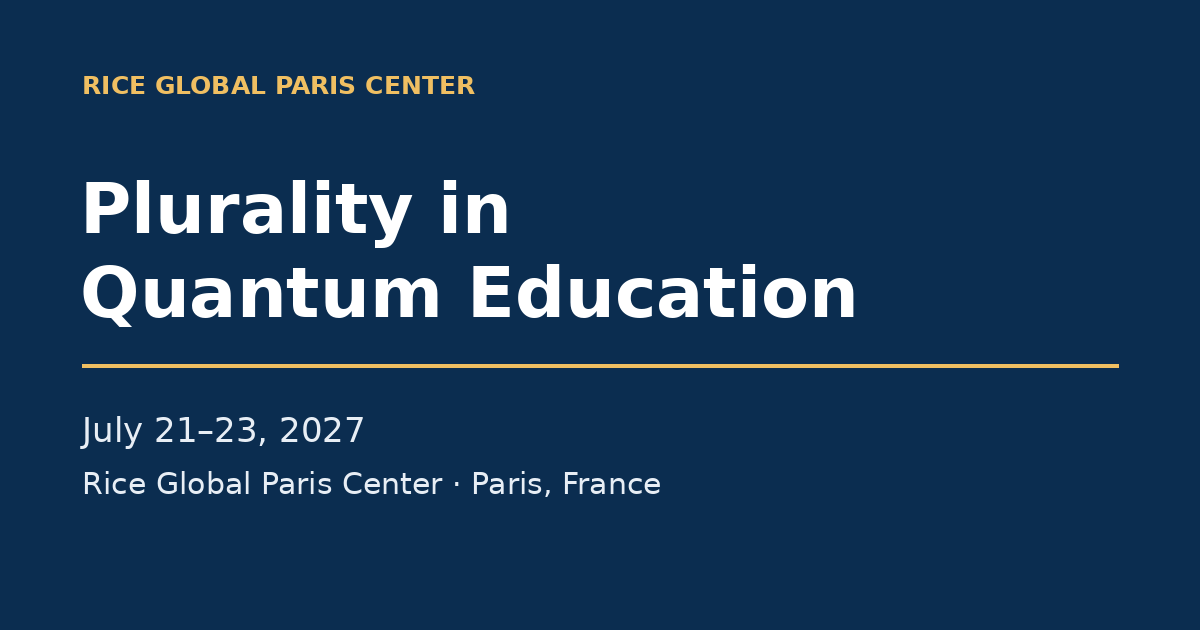
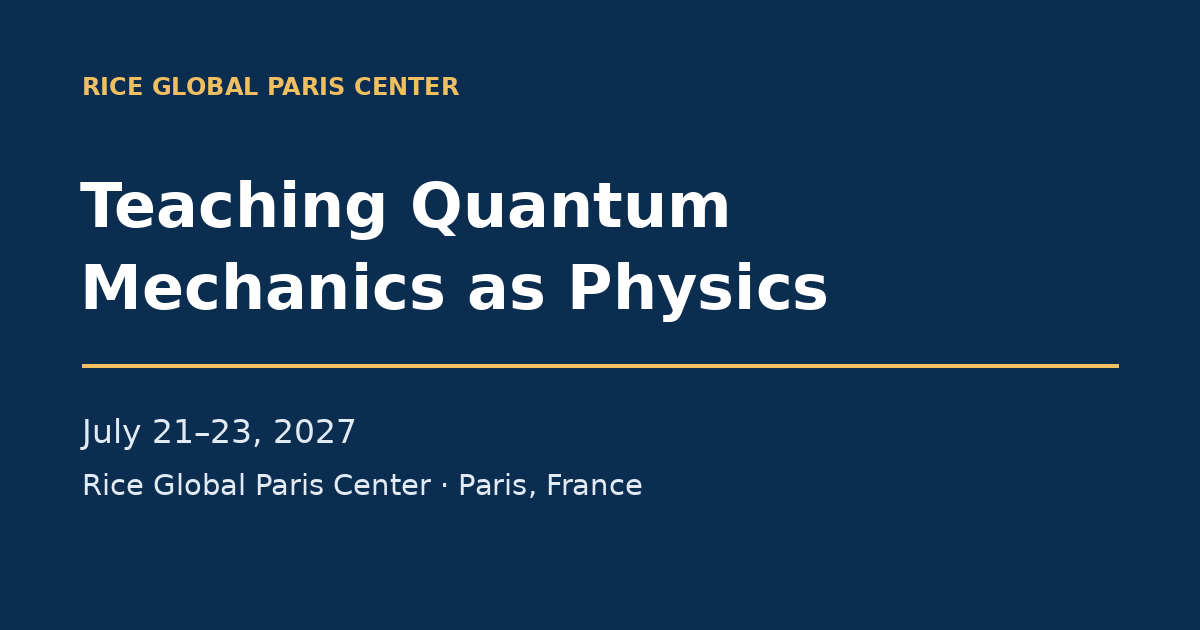
Paris 2027: new title, subtitle and overview; rename People tab to Committees

diff --git a/paris-2027/index.html b/paris-2027/index.html
@@ -3,10 +3,10 @@
 <head>
   <meta charset="UTF-8" />
   <meta name="viewport" content="width=device-width, initial-scale=1.0" />
-  <title>Plurality in Quantum Education | Paris 2027</title>
+  <title>Teaching Quantum Mechanics as Physics | Paris 2027</title>
   <meta name="description" content="A meeting of up to 35 participants at the Rice Global Paris Center, July 21–23, 2027, bringing proponents of different views of quantum mechanics together with physics educators in the centenary year of the 1927 Solvay Conference." />
   <meta property="og:type" content="website" />
-  <meta property="og:title" content="Plurality in Quantum Education · Paris 2027" />
+  <meta property="og:title" content="Teaching Quantum Mechanics as Physics · Paris 2027" />
   <meta property="og:description" content="What does quantum mechanics say about the world, and what should students learn about it? A working meeting at the Rice Global Paris Center, July 21–23, 2027." />
   <meta property="og:url" content="https://qontic.github.io/qontic-dev/paris-2027/" />
   <meta property="og:image" content="https://qontic.github.io/qontic-dev/paris-2027/og-image.png" />
@@ -58,24 +58,79 @@
     .program dt { color:var(--blue); font-weight:800; }
     .program dd { margin:0; font-size:.88rem; }
     .program strong { display:block; color:var(--navy); }
-    .committee { list-style:none; margin:.4rem 0 0; padding:0; }
-    .committee li { display:flex; flex-wrap:wrap; justify-content:space-between; gap:0 1rem; padding:.42rem 0; border-top:1px solid var(--line); font-size:.88rem; }
-    .committee strong { color:var(--navy); }
-    .committee .role { color:var(--muted); font-weight:400; }
-    .committee .affiliation { color:var(--muted); }
+    .committee { list-style:none; margin:.35rem 0 0; padding:0; columns:2; column-gap:1.4rem; font-size:.86rem; line-height:1.35; }
+    .committee li { break-inside:avoid; margin-bottom:.4rem; }
+    .committee strong { color:var(--navy); font-weight:650; }
+    .committee .affiliation { display:block; color:var(--muted); font-size:.8rem; }
     .invitation { display:flex; align-items:baseline; gap:.8rem; margin-top:.8rem; padding:.6rem .85rem; background:#e5eff5; border-left:4px solid var(--blue); }
     .invitation h2,.invitation p { margin:0; }
     .invitation p { font-size:.88rem; }
     .small { color:var(--muted); }
+    .glance { display:grid; grid-template-columns:165px minmax(0,1fr); gap:1.1rem; padding:0 1rem 0 0; }
+    .glance-photo { position:relative; margin:0; overflow:hidden; background:#2c5f93; }
+    .glance-photo img { position:absolute; inset:0; width:100%; height:100%; object-fit:cover; object-position:center 30%; }
+    .glance-photo figcaption { position:absolute; left:0; right:0; bottom:0; padding:1.2rem .35rem .25rem; background:linear-gradient(transparent,rgba(0,0,0,.6)); color:#eef2f5; font-size:.56rem; line-height:1.25; }
+    .glance-photo figcaption a { color:inherit; }
+    .glance-body { padding:.8rem 0 .9rem; }
+    .glance-body h2 { margin-top:0 !important; font-size:1.5rem !important; }
+    .glance-body dt { margin-top:1rem; font-size:.72rem; }
+    .glance-body dd { line-height:1.4; }
+    .glance-body dd { font-size:1rem; }
+    .heritage { margin-top:1rem; padding:1.1rem 1.2rem 1rem; color:#e6f0f7; background:radial-gradient(circle at 88% 0%,#28678b 0,transparent 45%),linear-gradient(150deg,#082641,#10446e); border-top:3px solid var(--gold); box-shadow:0 8px 25px rgba(8,38,65,.12); }
+    .heritage .kicker { margin:0 0 .25rem; color:#f4d696; font-size:.7rem; font-weight:750; letter-spacing:.13em; text-transform:uppercase; }
+    .heritage h2 { margin:0 0 .55rem; color:#fff; font:normal 1.4rem/1.2 Georgia,serif; }
+    .heritage p { font-size:.9rem; }
+    .timeline { list-style:none; display:grid; grid-template-columns:repeat(3,1fr); margin:.9rem 0 .8rem; padding:0; position:relative; }
+    .timeline::before { content:""; position:absolute; left:8px; right:8px; top:7px; height:2px; background:linear-gradient(90deg,rgba(232,189,103,.35),var(--gold)); }
+    .timeline li { position:relative; padding:1.35rem .6rem 0 0; font-size:.8rem; line-height:1.35; color:#d3e4ef; }
+    .timeline li::before { content:""; position:absolute; left:0; top:0; width:16px; height:16px; border-radius:50%; background:#0d3b62; border:2px solid var(--gold); }
+    .timeline li:last-child::before { background:var(--gold); box-shadow:0 0 0 4px rgba(232,189,103,.25); }
+    .timeline .year { display:block; color:#fff; font:normal 1.35rem/1.1 Georgia,serif; }
+    .timeline .place { display:block; color:#f4d696; font-size:.7rem; font-weight:750; letter-spacing:.08em; text-transform:uppercase; margin:.1rem 0 .2rem; }
+    .heritage .ref { margin:0; color:#b8cfde; font-size:.74rem; }
+    .heritage .ref em { color:#d3e4ef; }
+    .aim p { font-size:1.06rem; line-height:1.55; }
+    .heritage-wrap { margin-top:1.2rem; }
+    #overview > .heritage { display:grid; grid-template-columns:minmax(0,1.05fr) minmax(0,1fr); gap:0 2rem; align-items:center; margin-top:1.2rem; padding:1.3rem 1.5rem 1.1rem; }
+    #overview > .heritage .timeline { margin-top:.4rem; }
+    #overview .content-grid { align-items:stretch; grid-template-columns:minmax(0,1.4fr) minmax(0,1fr); }
+    #overview .content-column:last-child { display:flex; }
+    #overview .glance { flex:1; }
+    .glance-body { display:flex; flex-direction:column; justify-content:center; }
+    .people-block { max-width:880px; }
+    .people-block + .people-block { margin-top:1.4rem; }
+    #committee .committee, #advisory .committee { columns:3; margin-top:.6rem; }
+    .participant-list { columns:3; margin-top:.6rem; }
+    .tabs { display:flex; gap:.25rem; margin:0 0 1rem; border-bottom:2px solid var(--line); }
+    .tabs a { padding:.55rem 1rem; margin-bottom:-2px; border-bottom:3px solid transparent; color:var(--muted); font-weight:700; font-size:.95rem; text-decoration:none; }
+    .tabs a:hover { color:var(--navy); }
+    .tabs a[aria-selected="true"] { color:var(--navy); border-bottom-color:var(--gold); }
+    .js .tab-panel[hidden] { display:none; }
+    .venue-grid { display:grid; grid-template-columns:minmax(0,1.1fr) minmax(0,1fr); gap:1.4rem; align-items:start; }
+    .venue-hero { margin:0 0 .8rem; }
+    .venue-hero img { display:block; width:100%; height:260px; object-fit:cover; object-position:center 34%; }
+    .venue-hero figcaption { padding-top:.25rem; color:var(--muted); font-size:.72rem; }
+    .travel { list-style:none; margin:.3rem 0 .8rem; padding:0; }
+    .travel li { padding:.42rem 0; border-top:1px solid var(--line); font-size:.9rem; }
+    .travel strong { color:var(--navy); }
     footer { padding:.65rem 0; background:#082641; color:#d8e6ef; font-size:.8rem; }
     footer a { color:#fff; }
     @media(max-width:800px) {
-      .content-grid { grid-template-columns:1fr; }
+      .content-grid, #overview .content-grid { grid-template-columns:1fr; }
       .content-grid { gap:.7rem; }
       .hero { padding:1.3rem 0; }
       .hero-layout { grid-template-columns:minmax(0,1fr) 76px; gap:.7rem; }
       .event-logo { width:76px; height:76px; align-self:start; }
       .hero-details span + span::before { margin-right:.6rem; }
+      .venue-grid { grid-template-columns:1fr; }
+      .glance { grid-template-columns:110px minmax(0,1fr); gap:.8rem; }
+      .committee, #committee .committee, #advisory .committee { columns:1; }
+      #overview > .heritage { grid-template-columns:1fr; padding:1.1rem 1.2rem 1rem; }
+      .participant-list { columns:2; }
+      .timeline li { padding-right:.35rem; font-size:.76rem; }
+      .venue-hero img { height:180px; }
+      .tabs { overflow-x:auto; scrollbar-width:none; }
+      .tabs a { padding:.5rem .55rem; white-space:nowrap; font-size:.9rem; }
       .invitation { display:block; }
       .invitation h2 { margin-bottom:.2rem; }
     }
@@ -92,42 +147,32 @@
   <header>
     <div class="hero"><div class="shell hero-layout"><div>
       <p class="eyebrow">Rice Global Paris Center · July 21–23, 2027</p>
-      <h1>Plurality in Quantum Education</h1>
-      <p class="question">Can alternative views help students understand quantum mechanics?</p>
+      <h1>Teaching Quantum Mechanics as Physics</h1>
+      <p class="question">What do students gain from exploring different accounts of the quantum world?</p>
       <p class="hero-context">A meeting in the centenary year of the 1927 Solvay Conference.</p>
       <div class="hero-bottom"><div class="hero-details"><span>Paris, France</span><span>Three-day working meeting</span><span>Limited to 35 participants</span></div>
       <a class="button" href="mailto:yepes@rice.edu">Contact the organizers</a></div>
     </div><img class="event-logo" src="paris2027-logo.png" alt="Paris 2027 conference logo" width="130" height="130" /></div></div>
   </header>
   <main class="shell">
+    <nav class="tabs" role="tablist" aria-label="Conference sections">
+      <a href="#overview" id="tab-overview" role="tab" aria-controls="overview" aria-selected="true">Overview</a>
+      <a href="#program" id="tab-program" role="tab" aria-controls="program" aria-selected="false">Program</a>
+      <a href="#venue" id="tab-venue" role="tab" aria-controls="venue" aria-selected="false">Venue</a>
+      <a href="#people" id="tab-people" role="tab" aria-controls="people" aria-selected="false">Committees</a>
+    </nav>
+    <div id="overview" class="tab-panel" role="tabpanel" aria-labelledby="tab-overview">
     <div class="content-grid">
       <div class="content-column">
-        <section aria-labelledby="about-title">
+        <section aria-labelledby="about-title" class="aim">
           <h2 id="about-title">The meeting</h2>
-          <p>Quantum mechanics is usually taught as a calculational method. Students also ask what the theory says about the world, a question many courses leave open.</p>
-          <p>Leading proponents of the main views will address one shared classroom experiment: a double slit with a which-way detector. Physics educators, education researchers, historians, and philosophers will examine what students can gain from each account. Round tables will develop guidance for instructors and questions for further study.</p>
-        </section>
-        <section id="themes" aria-labelledby="themes-title">
-          <h2 id="themes-title">Questions for quantum education</h2>
-          <div class="themes">
-            <div class="theme"><h3>What does each view explain?</h3><p>How do the main views account for the shared experiment and its measurement outcomes?</p></div>
-            <div class="theme"><h3>What can students gain?</h3><p>At what stage of a course should students meet different views, and what does each offer them?</p></div>
-            <div class="theme"><h3>What improves learning?</h3><p>What can education research, history, and simulations contribute to instruction?</p></div>
-          </div>
-        </section>
-        <section id="committee" aria-labelledby="committee-title">
-          <h2 id="committee-title">Organizing committee</h2>
-          <ul class="committee">
-            <li><span><strong>Pablo Yepes</strong> <span class="role">(chair)</span></span><span class="affiliation">Rice University</span></li>
-            <li><strong>Anssi Kuha</strong><span class="affiliation">Metropolia University of Applied Sciences</span></li>
-            <li><strong>Travis Norsen</strong><span class="affiliation">Smith College</span></li>
-            <li><strong>Xavier Oriols</strong><span class="affiliation">Universitat Autònoma de Barcelona</span></li>
-            <li><strong>Jared Stenson</strong><span class="affiliation">Rice University</span></li>
-          </ul>
+          <p>In classical mechanics or classical electromagnetism courses, we help students build physical intuition: a clear picture of the processes the equations describe. In quantum mechanics, teaching centers on the mathematical formalism, and that gap matters more as calculation becomes increasingly automated.</p>
+          <p>Quantum mechanics predicts experiments with extraordinary precision, yet physicists still disagree about what it tells us about the world. Several accounts give the same predictions and very different pictures; most courses teach one, often only implicitly. This meeting brings together physics education researchers, philosophers and physicists working on the foundations of quantum mechanics to explore what students gain from bringing questions about the physical meaning of the mathematical formalism into the standard course, rather than leaving them aside.</p>
         </section>
       </div>
-      <div class="content-column"><aside class="side-card" aria-label="Conference details">
-        <figure class="venue-photo"><img src="https://global.rice.edu/_astro/image002-1.By1NjzXl_cQ5rf.jpg" alt="Courtyard at the Rice Global Paris Center" width="2048" height="1152" loading="lazy" /><figcaption>Rice Global Paris Center courtyard · Photo: Rice Global</figcaption></figure>
+      <div class="content-column"><aside class="side-card glance" aria-label="Conference details">
+        <figure class="glance-photo"><img src="eiffel-tower.jpg" alt="The Eiffel Tower seen from the Champ de Mars" width="440" height="953" /><figcaption><a href="https://commons.wikimedia.org/wiki/File:Tour_Eiffel_Wikimedia_Commons.jpg">Photo</a>: Benh LIEU SONG, <a href="https://creativecommons.org/licenses/by-sa/3.0/">CC BY-SA 3.0</a>, cropped</figcaption></figure>
+        <div class="glance-body">
         <h2>At a glance</h2>
         <dl>
           <dt>When</dt><dd>Wednesday, July 21 (morning) to Friday, July 23, 2027</dd>
@@ -135,23 +180,113 @@
           <dt>Format</dt><dd>Invited talks, round tables, and working groups</dd>
           <dt>Convened by</dt><dd>Rice University's <a href="https://qonticlab.rice.edu/">Q-Ontic Lab</a></dd>
         </dl>
+        </div>
       </aside>
-    <section id="program" aria-labelledby="program-title">
+      </div>
+    </div>
+    <section class="heritage" aria-labelledby="heritage-title">
+      <div class="heritage-text">
+      <p class="kicker">1927 · 2027</p>
+      <h2 id="heritage-title">A century after Solvay</h2>
+      <p>In October 1927 the fifth Solvay Conference in Brussels set rival accounts of the new quantum theory side by side. Louis de Broglie, who had introduced matter waves in his Paris thesis, presented his pilot-wave theory; Born and Heisenberg presented quantum mechanics; Schrödinger, wave mechanics. The debate did not end there.</p>
+      </div>
+      <div class="heritage-side">
+      <ol class="timeline">
+        <li><span class="year">1924</span><span class="place">Paris</span>De Broglie's thesis on matter waves</li>
+        <li><span class="year">1927</span><span class="place">Brussels</span>Rival accounts debated at Solvay</li>
+        <li><span class="year">2027</span><span class="place">Paris</span>What should students learn from them?</li>
+      </ol>
+      <p>A hundred years on, the debate is still open. This meeting returns to Paris to ask what it means for teaching.</p>
+      </div>
+    </section>
+    </div>
+    <div id="program" class="tab-panel" role="tabpanel" aria-labelledby="tab-program">
+    <section aria-labelledby="program-title">
       <h2 id="program-title">Provisional program</h2>
       <p>The detailed program and speakers are being developed.</p>
       <dl class="program">
-        <dt>Wednesday</dt><dd><strong>Main views and what they offer quantum education</strong>Invited speakers address the same classroom experiment and discuss what each view may help students understand.</dd>
+        <dt>Wednesday</dt><dd><strong>Main views and what they offer quantum education</strong>Invited speakers present the main views and discuss what each may help students understand.</dd>
         <dt>Thursday</dt><dd><strong>Evidence and resources for teaching</strong>Education research, historical cases, simulations, and course materials inform round tables on classroom approaches.</dd>
         <dt>Friday</dt><dd><strong>Guidance for instructors</strong>Round tables and working groups draft practical teaching options and open research questions.</dd>
       </dl>
     </section>
+    </div>
+    <div id="venue" class="tab-panel" role="tabpanel" aria-labelledby="tab-venue">
+      <div class="venue-grid">
+        <div>
+          <figure class="venue-hero"><img src="https://global.rice.edu/_astro/image002-1.By1NjzXl_cQ5rf.jpg" alt="Courtyard at the Rice Global Paris Center" width="2048" height="1152" loading="lazy" /><figcaption>Rice Global Paris Center courtyard · Photo: Rice Global</figcaption></figure>
+          <h2>Rice Global Paris Center</h2>
+          <p>The meeting takes place at Rice University's center in the Marais, one of the oldest neighborhoods in Paris. The building dates from 1540 and was built as a private residence in the reign of Francis I. It is set back from the street around a private courtyard and garden, and now hosts research meetings, conferences, and student programs.</p>
+          <p>The meeting room seats 35, which sets the size of the meeting.</p>
+        </div>
+        <div>
+          <aside class="side-card" aria-label="Venue address">
+            <h2 style="margin-top:0">Address</h2>
+            <p>5 rue Sainte-Croix de la Bretonnerie<br />75004 Paris, France</p>
+            <p><a href="https://www.google.com/maps/search/?api=1&amp;query=5+rue+Sainte-Croix+de+la+Bretonnerie+75004+Paris">Open in Google Maps</a></p>
+          </aside>
+          <h2 style="margin-top:1rem">Getting there</h2>
+          <ul class="travel">
+            <li><strong>Metro:</strong> Hôtel de Ville (lines 1 and 11) or Saint-Paul (line 1), a few minutes' walk.</li>
+            <li><strong>From Charles de Gaulle airport:</strong> RER B to Châtelet–Les Halles, then metro line 1 or a short walk; about 70 minutes.</li>
+            <li><strong>From Orly airport:</strong> metro line 14 to Châtelet, then metro line 1 or a short walk.</li>
+            <li><strong>From Gare de Lyon:</strong> metro line 1, about 15 minutes.</li>
+          </ul>
+          <p class="small">The streets around the center are narrow; public transport or walking is recommended.</p>
+          <h2 style="margin-top:1rem">Accommodation</h2>
+          <p>Many hotels are within walking distance in the Marais and around Châtelet. July is high season in Paris; we recommend booking early.</p>
+        </div>
       </div>
     </div>
-    <section id="contact" class="invitation" aria-labelledby="contact-title">
-      <h2 id="contact-title">Contact</h2>
-      <p>Invitations to speakers are now being issued. For questions, contact <a href="mailto:yepes@rice.edu">yepes@rice.edu</a>. Further details will follow.</p>
-    </section>
+    <div id="people" class="tab-panel" role="tabpanel" aria-labelledby="tab-people">
+      <section id="committee" class="people-block" aria-labelledby="committee-title">
+          <h2 id="committee-title">Organizing committee</h2>
+          <ul class="committee">
+            <li><strong>Pablo Yepes</strong> <span class="small">(chair)</span><span class="affiliation">Rice University</span></li>
+            <li><strong>Anssi Kuha</strong><span class="affiliation">Metropolia University of Applied Sciences</span></li>
+            <li><strong>Travis Norsen</strong><span class="affiliation">Smith College</span></li>
+            <li><strong>Xavier Oriols</strong><span class="affiliation">Universitat Autònoma de Barcelona</span></li>
+            <li><strong>Jared Stenson</strong><span class="affiliation">Rice University</span></li>
+          </ul>
+        </section>
+      <section id="advisory" class="people-block" aria-labelledby="advisory-title">
+        <h2 id="advisory-title">Advisory committee</h2>
+        <ul class="committee">
+          <li><strong>Jean Bricmont</strong><span class="affiliation">UCLouvain (emeritus)</span></li>
+          <li><strong>Dustin Lazarovici</strong><span class="affiliation">Technion – Israel Institute of Technology</span></li>
+          <li><strong>Avraham Merzel</strong><span class="affiliation">Hebrew University of Jerusalem</span></li>
+        </ul>
+      </section>
+
+    </div>
   </main>
   <footer><div class="shell">Organized by <a href="https://qonticlab.rice.edu/">Q-Ontic Lab</a> at Rice University, with support from Rice Global Paris.</div></footer>
+  <script>
+    (function () {
+      document.documentElement.classList.add('js');
+      var tabs = Array.prototype.slice.call(document.querySelectorAll('.tabs [role="tab"]'));
+      function show(id, focus) {
+        if (!document.getElementById(id)) id = 'overview';
+        tabs.forEach(function (t) {
+          var on = t.getAttribute('aria-controls') === id;
+          t.setAttribute('aria-selected', on ? 'true' : 'false');
+          t.tabIndex = on ? 0 : -1;
+          document.getElementById(t.getAttribute('aria-controls')).hidden = !on;
+          if (on && focus) t.focus();
+        });
+      }
+      tabs.forEach(function (t, i) {
+        t.addEventListener('click', function (e) { e.preventDefault(); var id = t.getAttribute('aria-controls'); history.replaceState(null, '', '#' + id); show(id); });
+        t.addEventListener('keydown', function (e) {
+          var d = e.key === 'ArrowRight' ? 1 : e.key === 'ArrowLeft' ? -1 : 0;
+          if (!d) return;
+          e.preventDefault(); var n = tabs[(i + d + tabs.length) % tabs.length];
+          history.replaceState(null, '', '#' + n.getAttribute('aria-controls')); show(n.getAttribute('aria-controls'), true);
+        });
+      });
+      window.addEventListener('hashchange', function () { show(location.hash.slice(1)); });
+      show(location.hash.slice(1) || 'overview');
+    })();
+  </script>
 </body>
 </html>
